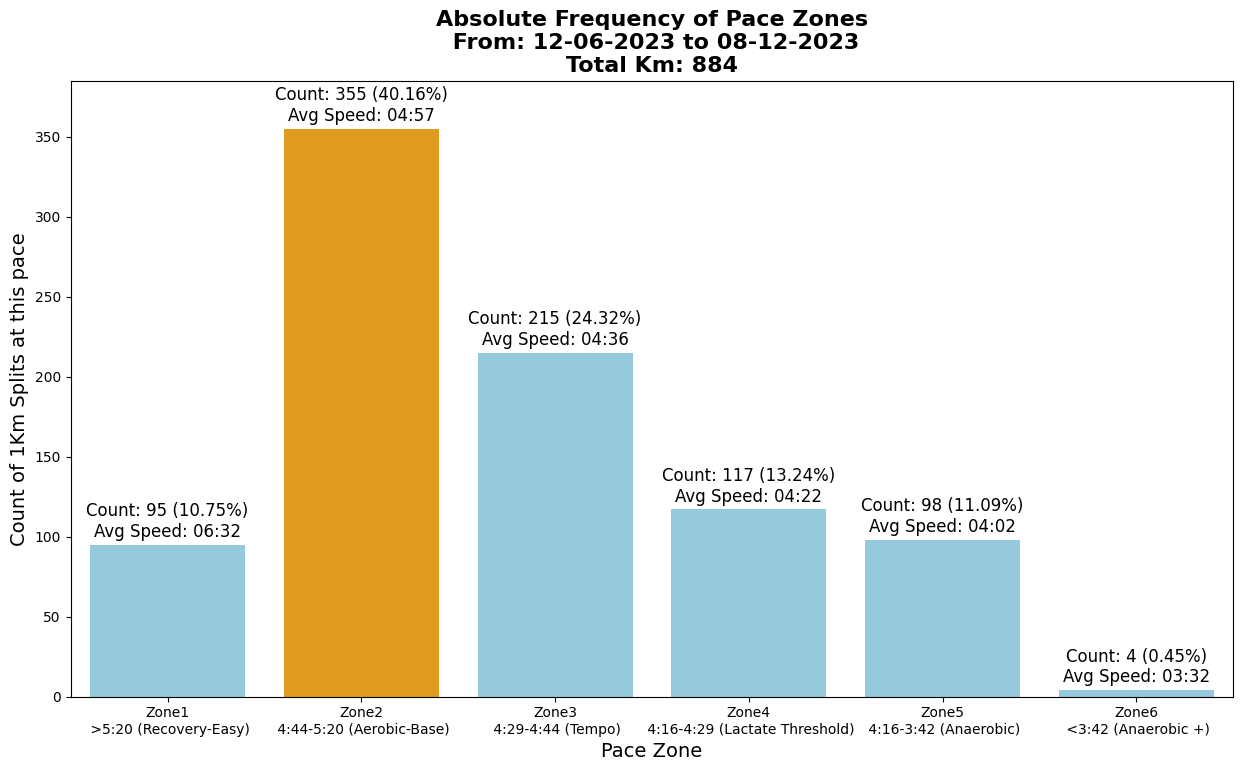
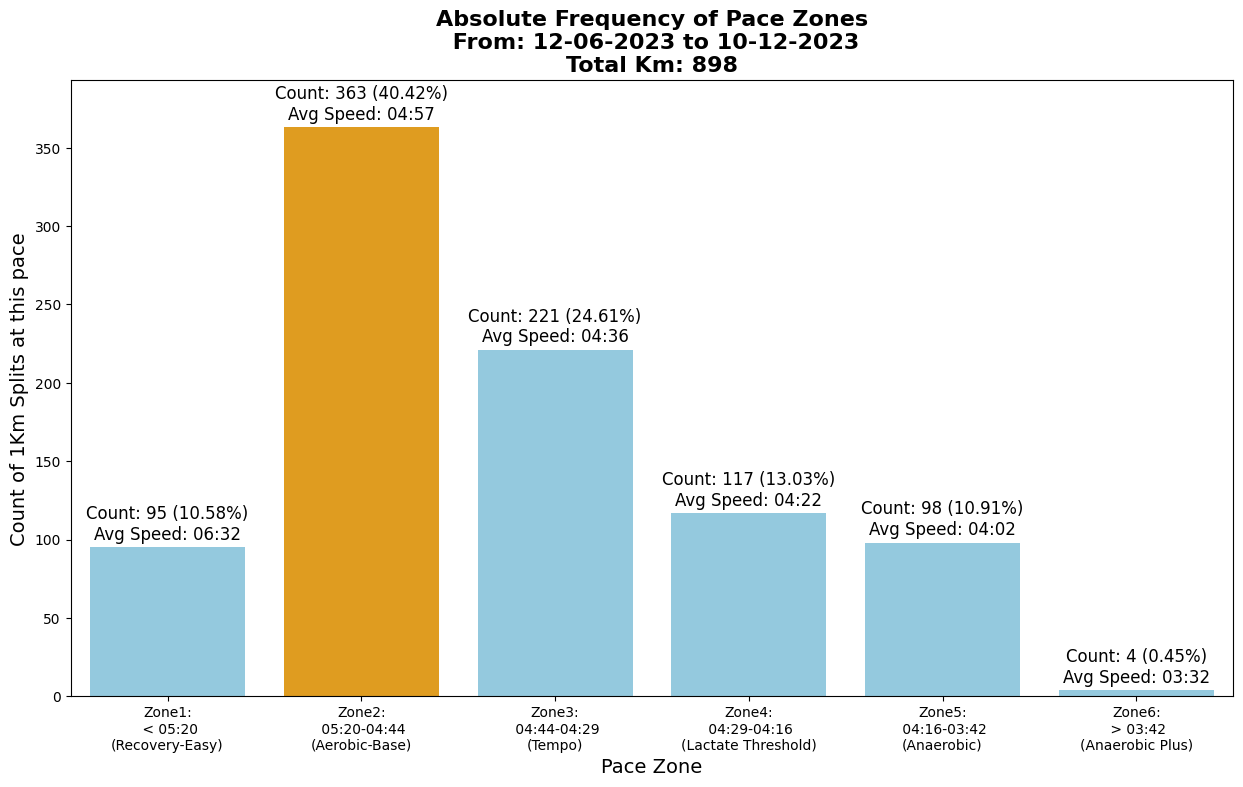
feat: refactoring and automation of zone naming

diff --git a/Exp2VisualizingPacePerKm/visualize.py b/Exp2VisualizingPacePerKm/visualize.py
@@ -2,17 +2,31 @@ import matplotlib.pyplot as plt
 import seaborn as sns
 import pandas as pd
 from helpers import format_timedelta
+import datetime
+from main import zones, zones_names
 
-zones_naming = {
-    "Zone1":'Zone1\n >5:20 (Recovery-Easy)',
-    "Zone2":'Zone2\n 4:44-5:20 (Aerobic-Base)',
-    "Zone3":'Zone3\n 4:29-4:44 (Tempo)',
-    "Zone4":'Zone4\n 4:16-4:29 (Lactate Threshold)',
-    "Zone5":'Zone5\n 4:16-3:42 (Anaerobic)',
-    "Zone6":"Zone6\n <3:42 (Anaerobic +)"
-}
+#zones naming
+zones_naming = {}
 
-df = pd.read_csv("Exp2VisualizingPathPerKm/data/AllTime1kmSplits.csv",
+for i in range(len(zones)+1):
+    if i==0:
+        lower =  str(zones[i])[-5:]
+        zones_naming["Zone%s" %(i+1)] = "Zone%s:\n > %s" %(i+1, lower)
+    elif i>0 and i<len(zones):
+        upper =  str(zones[i-1])[-5:]
+        lower = str(zones[i])[-5:]
+        zones_naming["Zone%s" %(i+1)] = "Zone%s:\n %s-%s" %(i+1, lower, upper)
+    else: 
+        upper = str(zones[i-1])[-5:]
+        zones_naming["Zone%s" %(i+1)] = "Zone%s:\n < %s" %(i+1, upper)
+
+if len(zones_names) != 0:
+    c=0
+    for z in zones_naming:
+        zones_naming[z] = zones_naming[z] + "\n(%s)" %zones_names[c]
+        c+=1
+    
+df = pd.read_csv("Exp2VisualizingPacePerKm/data/AllTime1kmSplits.csv",
                 sep=";", decimal=",", parse_dates=["date"])
 #correct dtypes
 df['average_speed'] = pd.to_timedelta(df['average_speed'])
@@ -31,7 +45,7 @@ def plot_pace_zones(df, zones_naming):
 
     # Create a color palette
     colors = ['skyblue' if pace_zone != max_count_pace_zone else 'orange' for pace_zone in pace_zone_order]
-
+    
     # Create a figure and axis
     plt.figure(figsize=(15, 8))
     ax = sns.countplot(data=df, x='pace_zone', order=pace_zone_order, palette=colors)
@@ -46,16 +60,21 @@ def plot_pace_zones(df, zones_naming):
     # Annotate with average speed
     total_count = df['pace_zone'].count()
     for i, pace_zone in enumerate(pace_zone_order):
-        count = df['pace_zone'].value_counts()[pace_zone]
-        percentage = count/total_count
-        avg_speed = df[df['pace_zone'] == pace_zone]['average_speed'].mean()
-        avg_speed = format_timedelta(avg_speed)
+        if pace_zone in df["pace_zone"].unique():
+            count = df['pace_zone'].value_counts()[pace_zone]
+            percentage = count/total_count
+            avg_speed = df[df['pace_zone'] == pace_zone]['average_speed'].mean()
+            avg_speed = format_timedelta(avg_speed)
+        else:
+            count=0
+            percentage=0
+            avg_speed=None
         ax.text(i, count + 5, f'Count: {count} ({round(percentage*100,2)}%)\nAvg Speed: {avg_speed}', ha='center', fontsize=12)
 
     plt.ylim(0, df['pace_zone'].value_counts().max() + 30)  # You can adjust the +2 for more space at the top
 
     # Show the plot
-    plt.savefig('Exp2VisualizingPathPerKm/vis/pace_zones_plot.png', bbox_inches='tight')
+    plt.savefig('Exp2VisualizingPacePerKm/vis/pace_zones_plot.png', bbox_inches='tight')
 
 
 #plot pace zones

diff --git a/Exp2VisualizingPacePerKm/main.py b/Exp2VisualizingPacePerKm/main.py
@@ -3,13 +3,37 @@ from stravaApiHelpers import *
 from helpers import *
 import pandas as pd
 
+norway = True
+if norway == True:
+    #norweigan zones
+    zone_1 = datetime.timedelta(seconds=4*60+55) #4:45 or above (Easy)
+    zone_2 = datetime.timedelta(seconds=4*60+44) #4:05-4:44 (Threshold)
+    # more than 4:05 anaerobic 
+    zones = [zone_1, zone_2]
+    zones_names = ["Easy", "Threshold", "Anaerobic"]
+
+else:
+    #approximate references for zones
+    zone_1 = datetime.timedelta(seconds=5*60+20) #5:20 (Recovery-Easy)
+    zone_2 = datetime.timedelta(seconds=4*60+44) #4:44 4:44-5:20 (Aerobic-Base)
+    zone_3 = datetime.timedelta(seconds=4*60+29) #4:29-4:44 (Tempo)
+    zone_4 = datetime.timedelta(seconds=4*60+16) #4:16-4:29 (Lactate Threshold)
+    zone_5 = datetime.timedelta(seconds=3*60+42) #4:16-3:42 (Anaerobic)
+    #zone_6 = There is always an automatic zone created (i.e. >zone 5) - (Anaerobic Plus)
+    zones = [zone_1, zone_2, zone_3, zone_4, zone_5]
+    zones_names = ["Recovery-Easy","Aerobic-Base","Tempo","Lactate Threshold","Anaerobic", "Anaerobic Plus"]
+
+if len(zones_names) != 0:
+    assert len(zones)+1 == len(zones_names)
+    
+
 if __name__ == "__main__":
     
     # Configure OAuth2 access token for authorization: strava_oauth
     access_token = os.getenv('ACCESS_TOKEN')
 
     #limit activities to get from API - could be also filtered by date
-    limit_activites = 200
+    limit_activites = 50
 
     #get all activities
     activities = get_all_activities(access_token, limit_activites)
@@ -43,7 +67,7 @@ if __name__ == "__main__":
                     new_row["elevation_difference_in_m"] = split["elevation_difference"]
                     #add trianing zones if heart rate not available
                     if split["pace_zone"] == 0:
-                        new_row["pace_zone"] = extract_pace_zone(new_row["average_speed"])
+                        new_row["pace_zone"], zones = extract_pace_zone(new_row["average_speed"], zones)
                     else:
                         new_row["pace_zone"] = split["pace_zone"]
                             
@@ -52,4 +76,4 @@ if __name__ == "__main__":
             print("Not a run: ", activity_type)
 
     df = df.sort_values(by=["average_speed"], ascending=True)
-    df.to_csv("Exp2VisualizingPathPerKm/data/AllTime1kmSplits.csv", index=False, header=True, sep=";", decimal=",")
+    df.to_csv("Exp2VisualizingPacePerKm/data/AllTime1kmSplits.csv", index=False, header=True, sep=";", decimal=",")

diff --git a/Exp2VisualizingPacePerKm/helpers.py b/Exp2VisualizingPacePerKm/helpers.py
@@ -10,21 +10,15 @@ def format_timedelta(td: datetime.timedelta):
     minutes, seconds = divmod(td.total_seconds(), 60)
     return f"{int(minutes):02d}:{int(seconds):02d}"
 
-def extract_pace_zone(speed_in_min_per_km: datetime.timedelta):
-    #approximate references
-    zone_1 = datetime.timedelta(seconds=5*60+20) #5:20
-    zone_2 = datetime.timedelta(seconds=4*60+44) #4:44
-    zone_3 = datetime.timedelta(seconds=4*60+29) #4:29
-    zone_4 = datetime.timedelta(seconds=4*60+16) #4:16
-    zone_5 = datetime.timedelta(seconds=3*60+42) #3:42 - #not needed
-    zones = [zone_1, zone_2, zone_3, zone_4, zone_5]
+def extract_pace_zone(speed_in_min_per_km: datetime.timedelta, zones: list):
 
+    zones_copy = zones.copy()
     #append to list
     zones.append(speed_in_min_per_km)
     #sort descending 
     zones = sorted(zones, reverse=True)
     #extract index in list +1 = zone (up to 6 zones if faster than 5)
-    return "Zone" + str(zones.index(speed_in_min_per_km)+1)
+    return "Zone" + str(zones.index(speed_in_min_per_km)+1), zones_copy
     
 
 

diff --git a/Exp2VisualizingPacePerKm/README.md b/Exp2VisualizingPacePerKm/README.md
@@ -1,0 +1,23 @@
+# Exp 2: Extracting 1km splits from all the activities and visualizing them 
+
+This experiment consists on extracting every (complete) km split from your strava activities, storing this information in a curated csv file and visualize them in a barplot, in whcih you observe how many km you have run in some customizable "pace zones". 
+
+An example: all my 1km splits from the last 200 runs I saved in Strava;
+
+![Example Visualization](../Exp2VisualizingPacePerKm/vis/pace_zones_plot.png)
+
+## How to Run the Experiment
+
+1. Review the provided code for a better understanding of the process and to adapt it according to your needs.
+
+2. Customize your "pace zones" at [main.py](Exp2VisualizingPacePerKm\main.py).
+
+3. Set an environment variable with your Strava Access Token. You can do this by running the following command in your terminal:
+
+   ```bash
+   export ACCESS_TOKEN={YourToken}
+   ```
+
+4. Run the [main.py](main.py) script using your preferred Python interpreter. This will generate a [csv](Exp2VisualizingPacePerKm\data\AllTime1kmSplits.csv) file with all your 1km splits. 
+
+5. Run [visualize.py](Exp2VisualizingPacePerKm\visualize.py) to generate your barplot.
